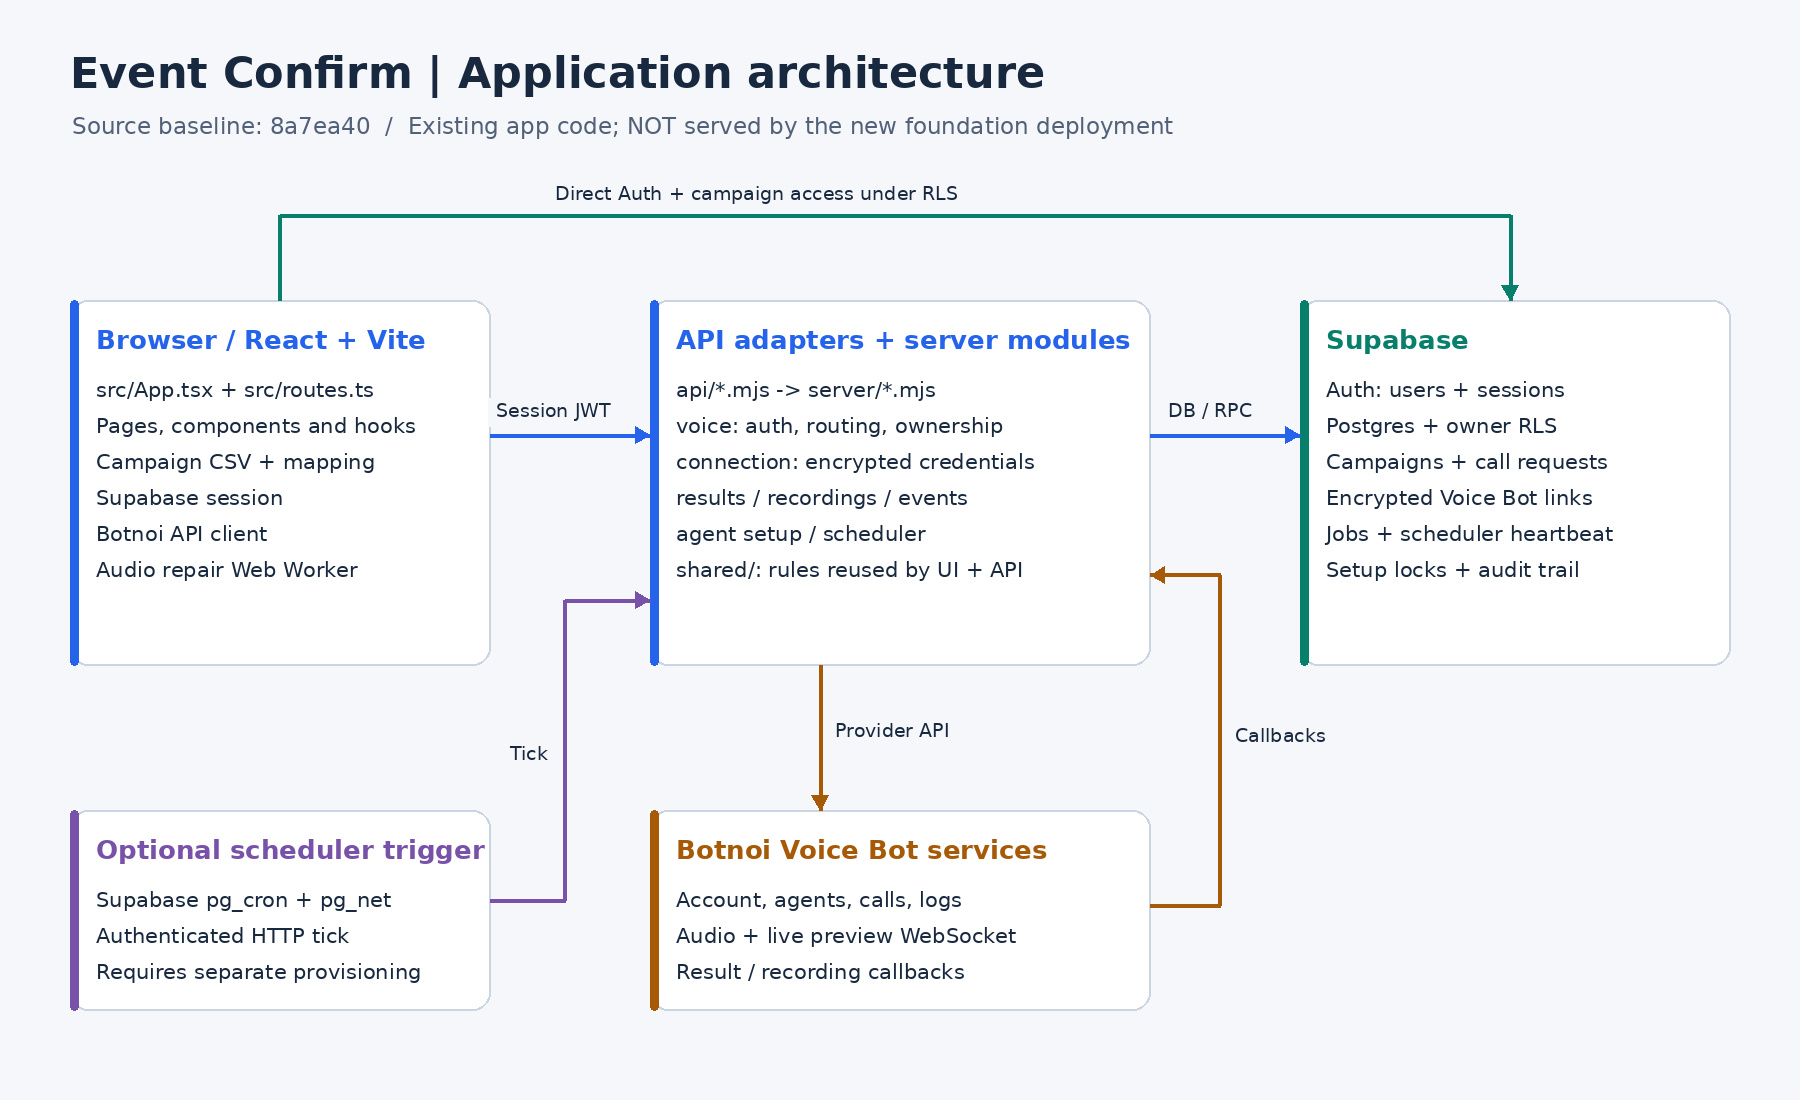
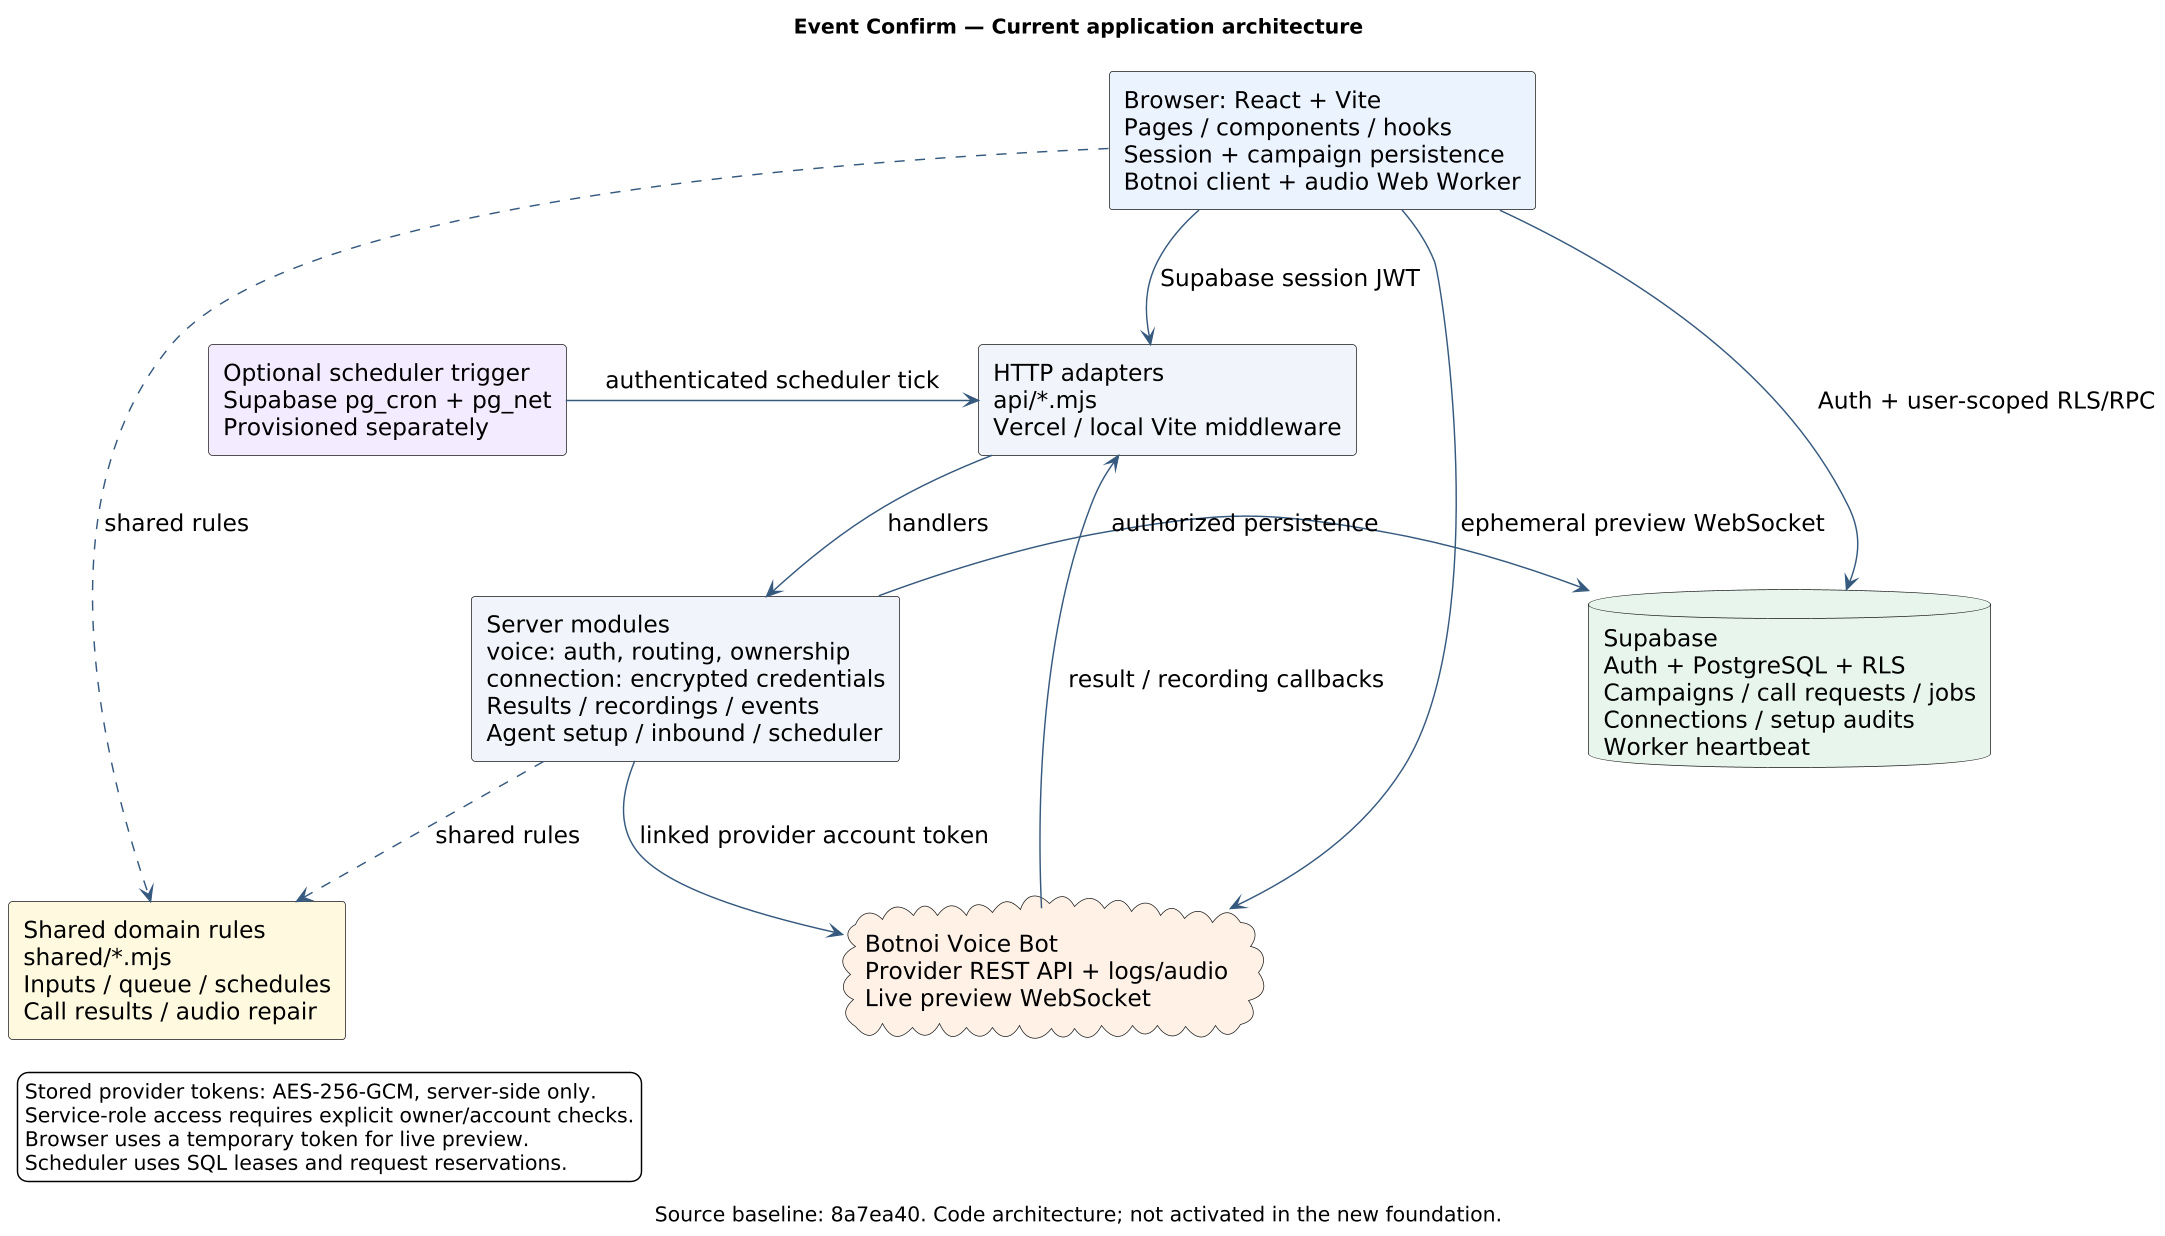
Use standard PlantUML sources for rendered JPG architecture diagrams

diff --git a/docs/diagrams/render.py b/docs/diagrams/render.py
@@ -1,86 +1,26 @@
-"""Rebuild architecture JPEGs: python3 docs/diagrams/render.py (requires Pillow)."""
+"""Render standard PlantUML sources locally, then encode the result as JPEG.
+Usage: python3 docs/diagrams/render.py /path/to/plantuml.jar
+Requires Java, PlantUML, Pillow and DejaVu Sans. Smetana avoids external Graphviz.
+"""
 from pathlib import Path
-from PIL import Image, ImageDraw, ImageFont
-import math
+import subprocess
+import sys
+import tempfile
+from PIL import Image
 
-OUT = Path(__file__).resolve().parent
-FONT = '/usr/share/fonts/truetype/dejavu/DejaVuSans.ttf'
-BOLD = '/usr/share/fonts/truetype/dejavu/DejaVuSans-Bold.ttf'
-INK = '#18283e'
-BLUE = '#2563eb'
-
-def font(size, bold=False):
-    return ImageFont.truetype(BOLD if bold else FONT, size)
-
-def canvas(title, subtitle):
-    im = Image.new('RGB', (1800, 1100), '#f5f7fb')
-    d = ImageDraw.Draw(im)
-    d.text((70, 48), title, font=font(43, True), fill=INK)
-    d.text((72, 112), subtitle, font=font(23), fill='#526178')
-    return im, d
-
-def box(d, rect, title, lines, color=BLUE):
-    x, y, r, b = rect
-    d.rounded_rectangle(rect, radius=18, fill='white', outline='#cbd5e1', width=2)
-    d.rounded_rectangle((x, y, x+8, b), radius=4, fill=color)
-    d.text((x+26, y+24), title, font=font(26, True), fill=color)
-    for n, line in enumerate(lines):
-        d.text((x+26, y+77+n*36), line, font=font(21), fill=INK)
-
-def arrow(d, points, label=None, at=None, color=BLUE):
-    d.line(points, fill=color, width=4, joint='curve')
-    a, b = points[-2:]
-    angle = math.atan2(b[1]-a[1], b[0]-a[0])
-    wing = [(b[0]-17*math.cos(angle+s), b[1]-17*math.sin(angle+s)) for s in (-.5,.5)]
-    d.polygon([b, *wing], fill=color)
-    if label:
-        x,y=at
-        bounds=d.textbbox((x,y),label,font=font(19))
-        d.rectangle((bounds[0]-8,bounds[1]-5,bounds[2]+8,bounds[3]+5),fill='#f5f7fb')
-        d.text((x,y),label,font=font(19),fill=INK)
-
-im,d=canvas('Event Confirm | Application architecture', 'Source baseline: 8a7ea40  /  Existing app code; NOT served by the new foundation deployment')
-box(d,(70,300,490,665),'Browser / React + Vite',[
-    'src/App.tsx + src/routes.ts', 'Pages, components and hooks', 'Campaign CSV + mapping',
-    'Supabase session', 'Botnoi API client', 'Audio repair Web Worker'])
-box(d,(650,300,1150,665),'API adapters + server modules',[
-    'api/*.mjs -> server/*.mjs', 'voice: auth, routing, ownership', 'connection: encrypted credentials',
-    'results / recordings / events', 'agent setup / scheduler', 'shared/: rules reused by UI + API'])
-box(d,(1300,300,1730,665),'Supabase',[
-    'Auth: users + sessions', 'Postgres + owner RLS', 'Campaigns + call requests',
-    'Encrypted Voice Bot links', 'Jobs + scheduler heartbeat', 'Setup locks + audit trail'], '#087f6b')
-box(d,(650,810,1150,1010),'Botnoi Voice Bot services',[
-    'Account, agents, calls, logs', 'Audio + live preview WebSocket', 'Result / recording callbacks'], '#a65a08')
-box(d,(70,810,490,1010),'Optional scheduler trigger',[
-    'Supabase pg_cron + pg_net', 'Authenticated HTTP tick', 'Requires separate provisioning'], '#7851a9')
-arrow(d,[(490,435),(650,435)],'Session JWT',(496,399))
-arrow(d,[(1150,435),(1300,435)],'DB / RPC',(1168,399))
-arrow(d,[(280,300),(280,215),(1510,215),(1510,300)],'Direct Auth + campaign access under RLS',(555,182),'#087f6b')
-arrow(d,[(820,665),(820,810)],'Provider API',(835,719),'#a65a08')
-arrow(d,[(1150,905),(1220,905),(1220,575),(1150,575)],'Callbacks',(1235,724),'#a65a08')
-arrow(d,[(490,900),(565,900),(565,600),(650,600)],'Tick',(510,742),'#7851a9')
-im.save(OUT/'application-architecture.jpg',quality=95,subsampling=0)
-
-im,d=canvas('Event Confirm | Deployment foundation', 'Infrastructure only  /  Current app, Supabase credentials and scheduled calls are not activated')
-box(d,(70,270,490,515),'Public client',[
-    'https://otterdev.xyz', '/event-confirm/', '/event-confirm/*'])
-box(d,(680,270,1100,515),'Shared edge nginx',[
-    'Separate shared-edge service', 'Exact 308 trailing-slash redirect', 'Prefix proxy + route header'])
-box(d,(1290,270,1730,515),'Project nginx container',[
-    'Host port 18346', 'Readiness message + healthz', 'API routes return JSON 503'], '#087f6b')
-arrow(d,[(490,390),(680,390)],'HTTPS ingress',(506,350))
-arrow(d,[(1100,390),(1290,390)],'HTTP proxy',(1130,350))
-box(d,(70,720,490,955),'GitHub',[
-    'otterdev0341/event-cf', 'main branch', 'Jenkinsfile + infra + compose'])
-box(d,(680,720,1100,955),'Jenkins: event-confirm',[
-    'Disk gate + owned cleanup', 'Build / validate / deploy / smoke', 'Post cleanup on every outcome'])
-box(d,(1290,720,1730,955),'Shared BuildKit builder',[
-    'otter-shared-ci', 'One parallel build step', 'Central cache GC; shared lock'])
-arrow(d,[(490,835),(680,835)],'SCM polling',(520,795))
-arrow(d,[(1100,835),(1290,835)],'Build image',(1132,795))
-arrow(d,[(1510,720),(1510,515)],'Immutable image',(1528,604),'#087f6b')
-d.text((75,575),'Runtime: 0.25 CPU | 64 MiB RAM | no extra swap | 64 PIDs | bounded logs',font=font(25,True),fill=INK)
-d.text((75,625),'Retention: deployed + rollback images; all volumes and container-referenced images protected',font=font(22),fill='#526178')
-d.text((75,1022),'The rewrite replaces the project nginx readiness response while retaining routing and CI controls.',font=font(23),fill=INK)
-im.save(OUT/'deployment-foundation.jpg',quality=95,subsampling=0)
-print('Generated application-architecture.jpg and deployment-foundation.jpg')
+root = Path(__file__).resolve().parent
+if len(sys.argv) != 2:
+    raise SystemExit('Usage: python3 docs/diagrams/render.py /path/to/plantuml.jar')
+jar = Path(sys.argv[1]).resolve(strict=True)
+sources = sorted(root.glob('*.puml'))
+with tempfile.TemporaryDirectory(prefix='event-confirm-plantuml-') as output:
+    subprocess.run([
+        'java', '-Xmx256m', '-Djava.awt.headless=true', '-jar', str(jar),
+        '-failfast2', '-charset', 'UTF-8', '-tpng', '-o', output,
+        *map(str, sources),
+    ], check=True)
+    for source in sources:
+        with Image.open(Path(output) / source.with_suffix('.png').name) as image:
+            target = source.with_suffix('.jpg')
+            image.convert('RGB').save(target, quality=95, subsampling=0)
+            print(f'{target.name}: {image.width} x {image.height}')

diff --git a/docs/README.md b/docs/README.md
@@ -7,10 +7,22 @@
 - [Deployment foundation — JPG](diagrams/deployment-foundation.jpg)
 - [การ deploy บน Otter host และนโยบาย resource/cleanup](HOST_DEPLOYMENT.md)
 
-ภาพเป็น JPG ขนาด 1800 × 1100 เปิดด้วย image viewer จาก terminal ได้
+ภาพเป็น JPG ที่ render จาก PlantUML มาตรฐาน เปิดด้วย image viewer จาก terminal ได้
 เช่น `kitten icat docs/diagrams/application-architecture.jpg` เมื่อใช้ Kitty
 หรือ `chafa docs/diagrams/application-architecture.jpg` หากติดตั้ง chafa แล้ว
-สร้างภาพใหม่ด้วย `python3 docs/diagrams/render.py` (ต้องมี Pillow และ DejaVu Sans)
+ต้นฉบับ: [application-architecture.puml](diagrams/application-architecture.puml)
+และ [deployment-foundation.puml](diagrams/deployment-foundation.puml)
+
+สร้างภาพใหม่ด้วย:
+
+```bash
+python3 docs/diagrams/render.py /path/to/plantuml.jar
+```
+
+ต้องมี Java, [PlantUML](https://plantuml.com/command-line), Pillow และ DejaVu Sans
+ใช้ Smetana layout engine จึงไม่ต้องติดตั้ง Graphviz เพิ่ม ตัว script ให้ PlantUML
+render PNG แล้วแปลง format เป็น JPG โดยไม่จัดวางหรือวาด diagram เอง
+ไม่ส่ง source ไปยัง online renderer และไม่เก็บ JAR ไว้ใน Git
 
 เอกสารรายฟีเจอร์เดิม:
 
